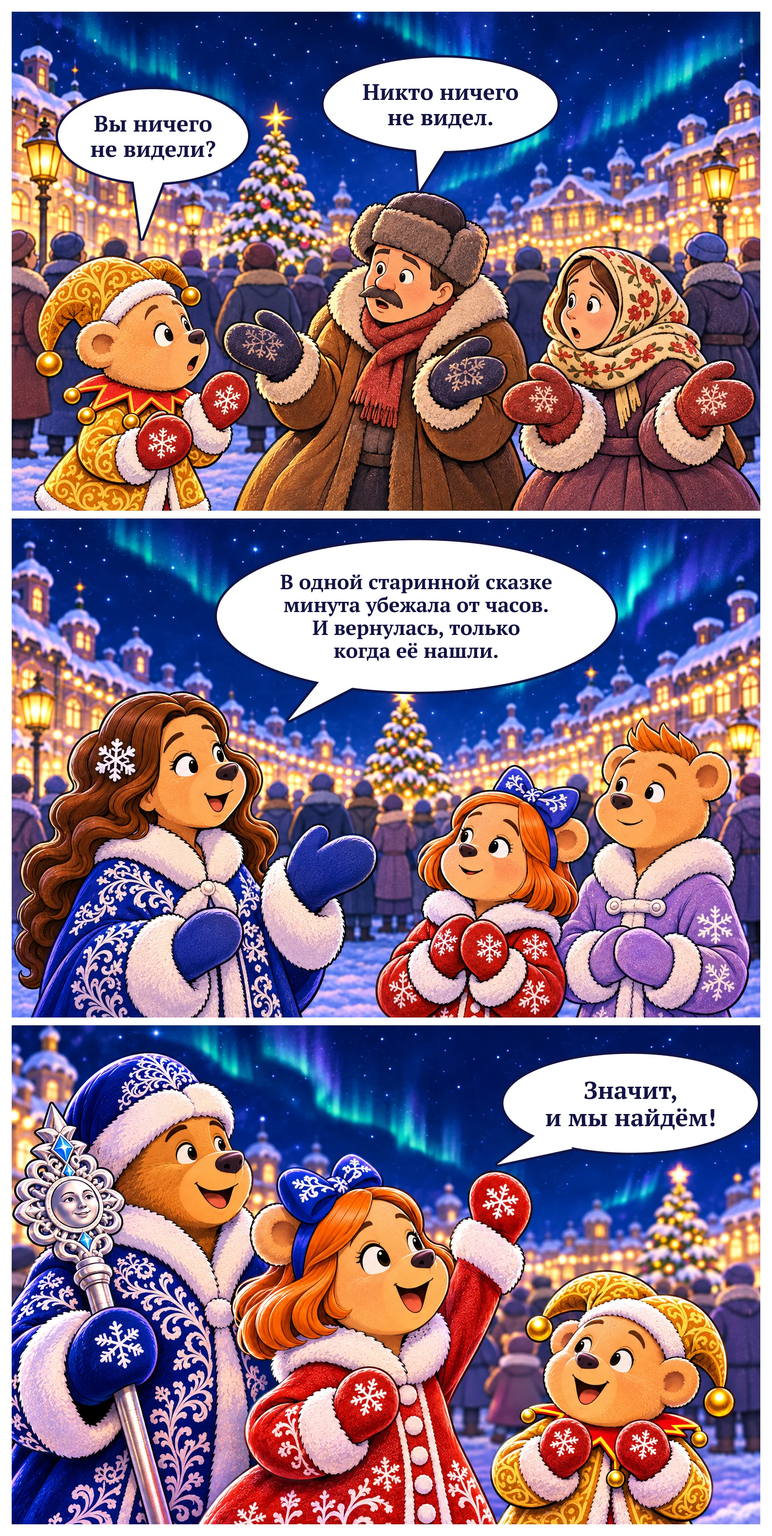
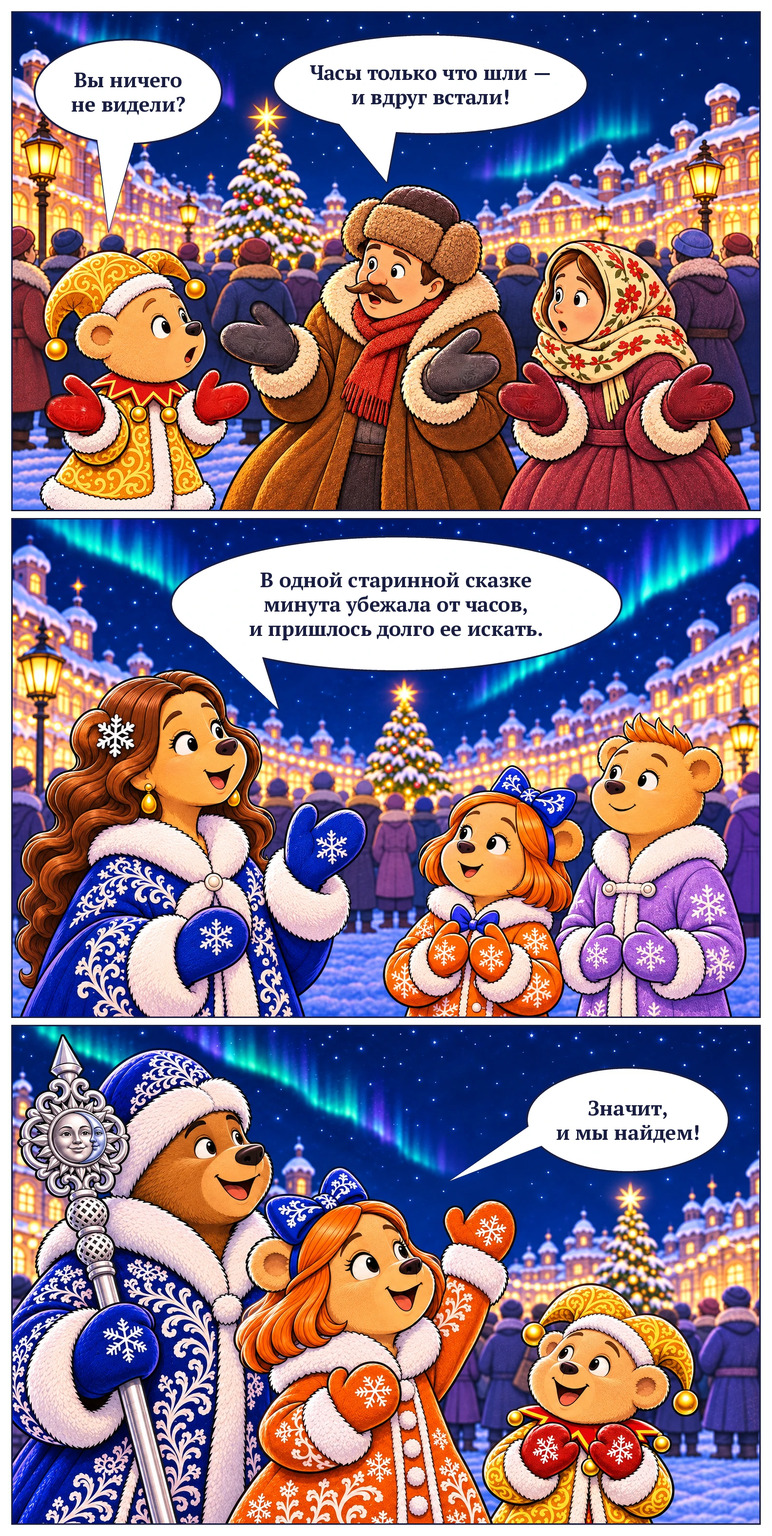
Комикс «Живая сказка», гл. I: новые страницы по правкам клиента от 13.11
Claude-Session: https://claude.ai/code/session_0121wcKj2fasBRijVY2AcWo9

diff --git a/index.html b/index.html
@@ -319,7 +319,7 @@
       <h2 class="qm-title" id="cmTitle">Глава I. Последняя минута</h2>
       <div class="cm-pages">
         <picture><source srcset="assets/img/comic_p1.webp" type="image/webp"><img loading="lazy" src="assets/img/comic_p1.jpg" width="1584" height="3152" alt="Страница 1. Новогодняя ночь, семья Михаила на праздничной площади, часы на башне встали без одной минуты двенадцать. Горожане: «До полуночи одна минута…», «Почему часы встали?» Михаил: «Куда же делась последняя минута?» Петр: «Смотрите! На снегу серебристые искры…»"></picture>
-        <picture><source srcset="assets/img/comic_p2.webp" type="image/webp"><img loading="lazy" src="assets/img/comic_p2.jpg" width="1584" height="3152" alt="Страница 2. Борис расспрашивает горожан: «Вы ничего не видели?» — «Никто ничего не видел.» Мария: «В одной старинной сказке минута убежала от часов. И вернулась, только когда ее нашли.» София: «Значит, и мы найдем!»"></picture>
+        <picture><source srcset="assets/img/comic_p2.webp" type="image/webp"><img loading="lazy" src="assets/img/comic_p2.jpg" width="1584" height="3152" alt="Страница 2. Борис расспрашивает горожан: «Вы ничего не видели?» — «Часы только что шли — и вдруг встали!» Мария: «В одной старинной сказке минута убежала от часов, и пришлось долго ее искать.» София: «Значит, и мы найдем!»"></picture>
       </div>
       <div class="qm-endb">
         <a class="btn" href="https://psbng2027.ru">Перейти на&nbsp;платформу</a>
